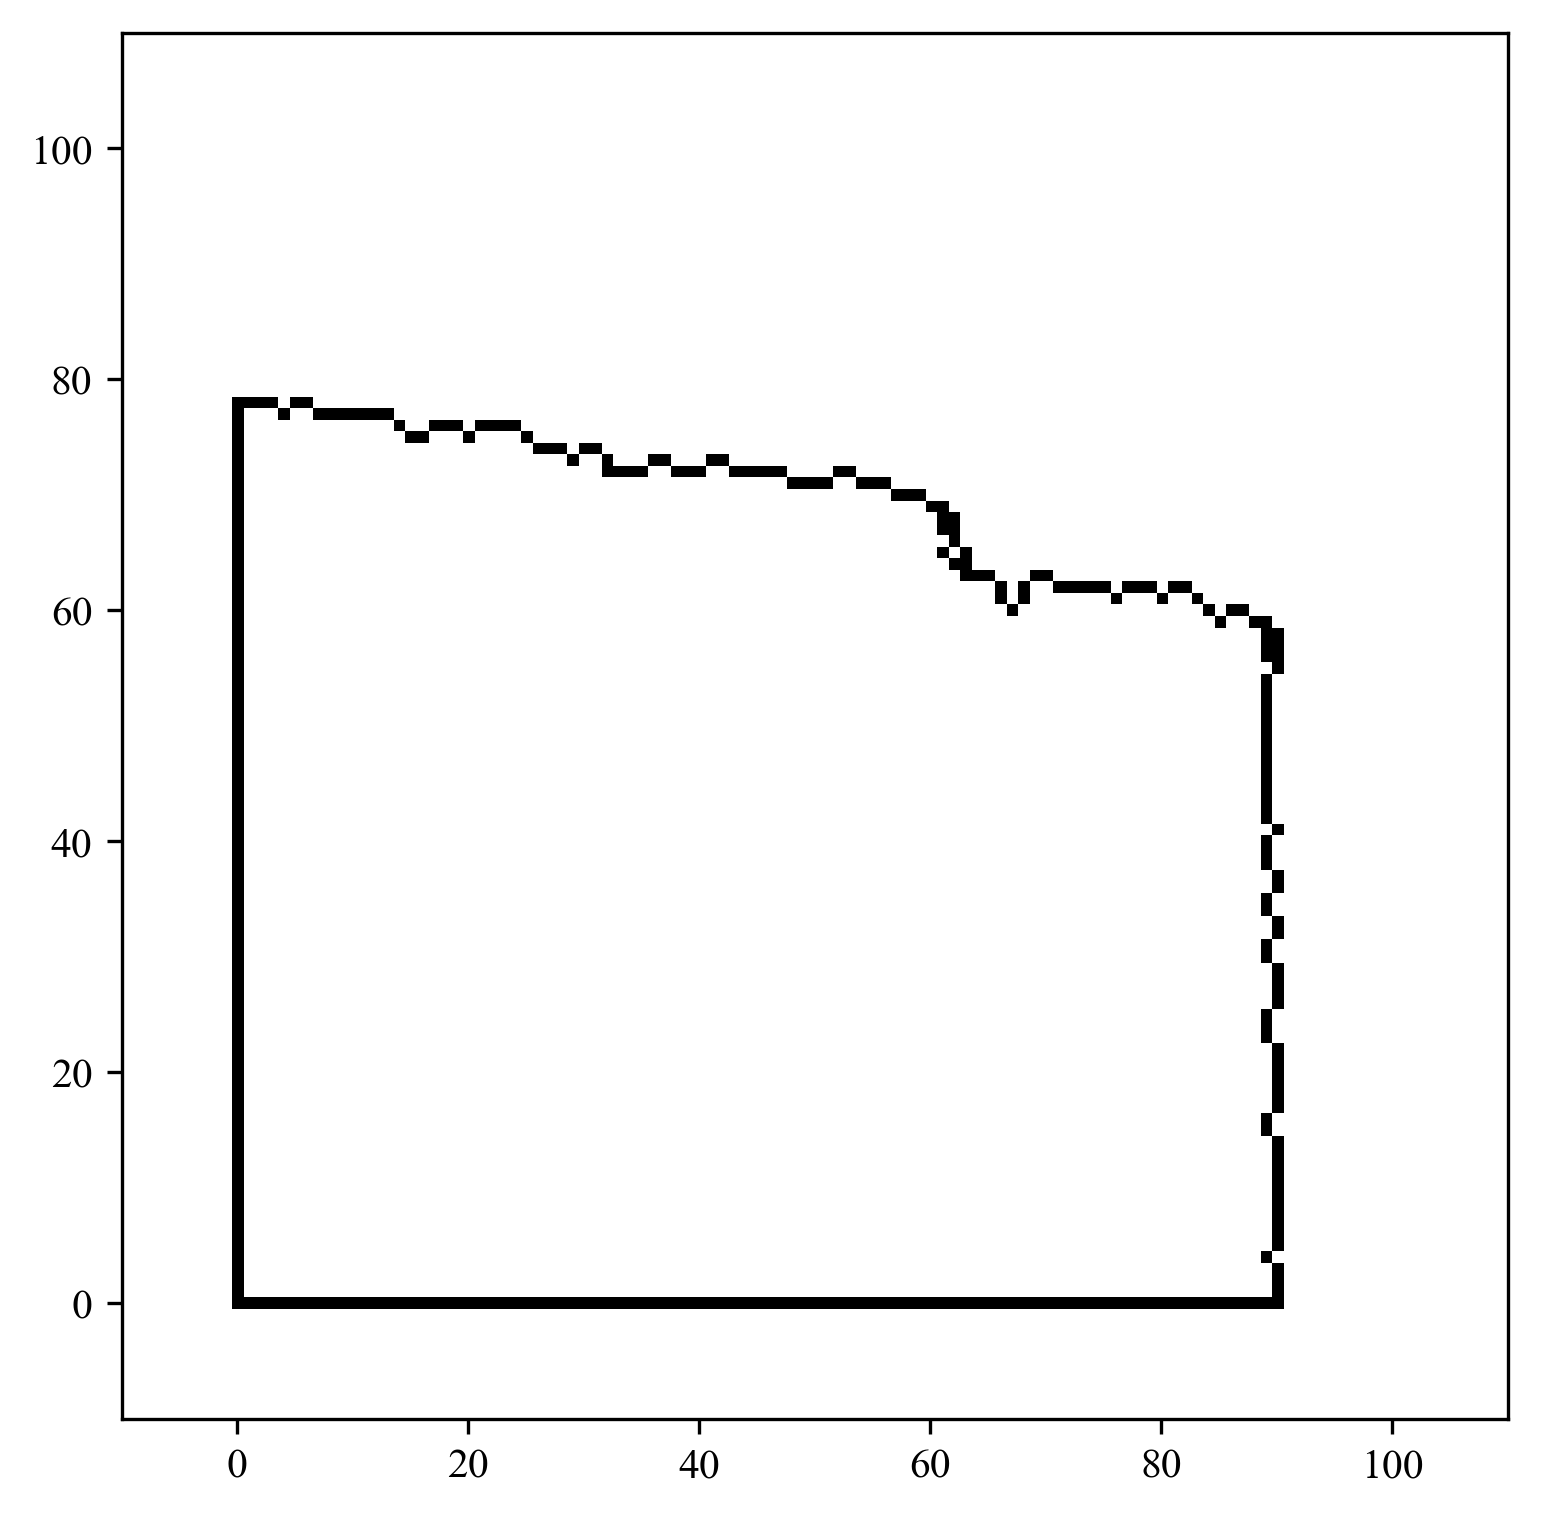
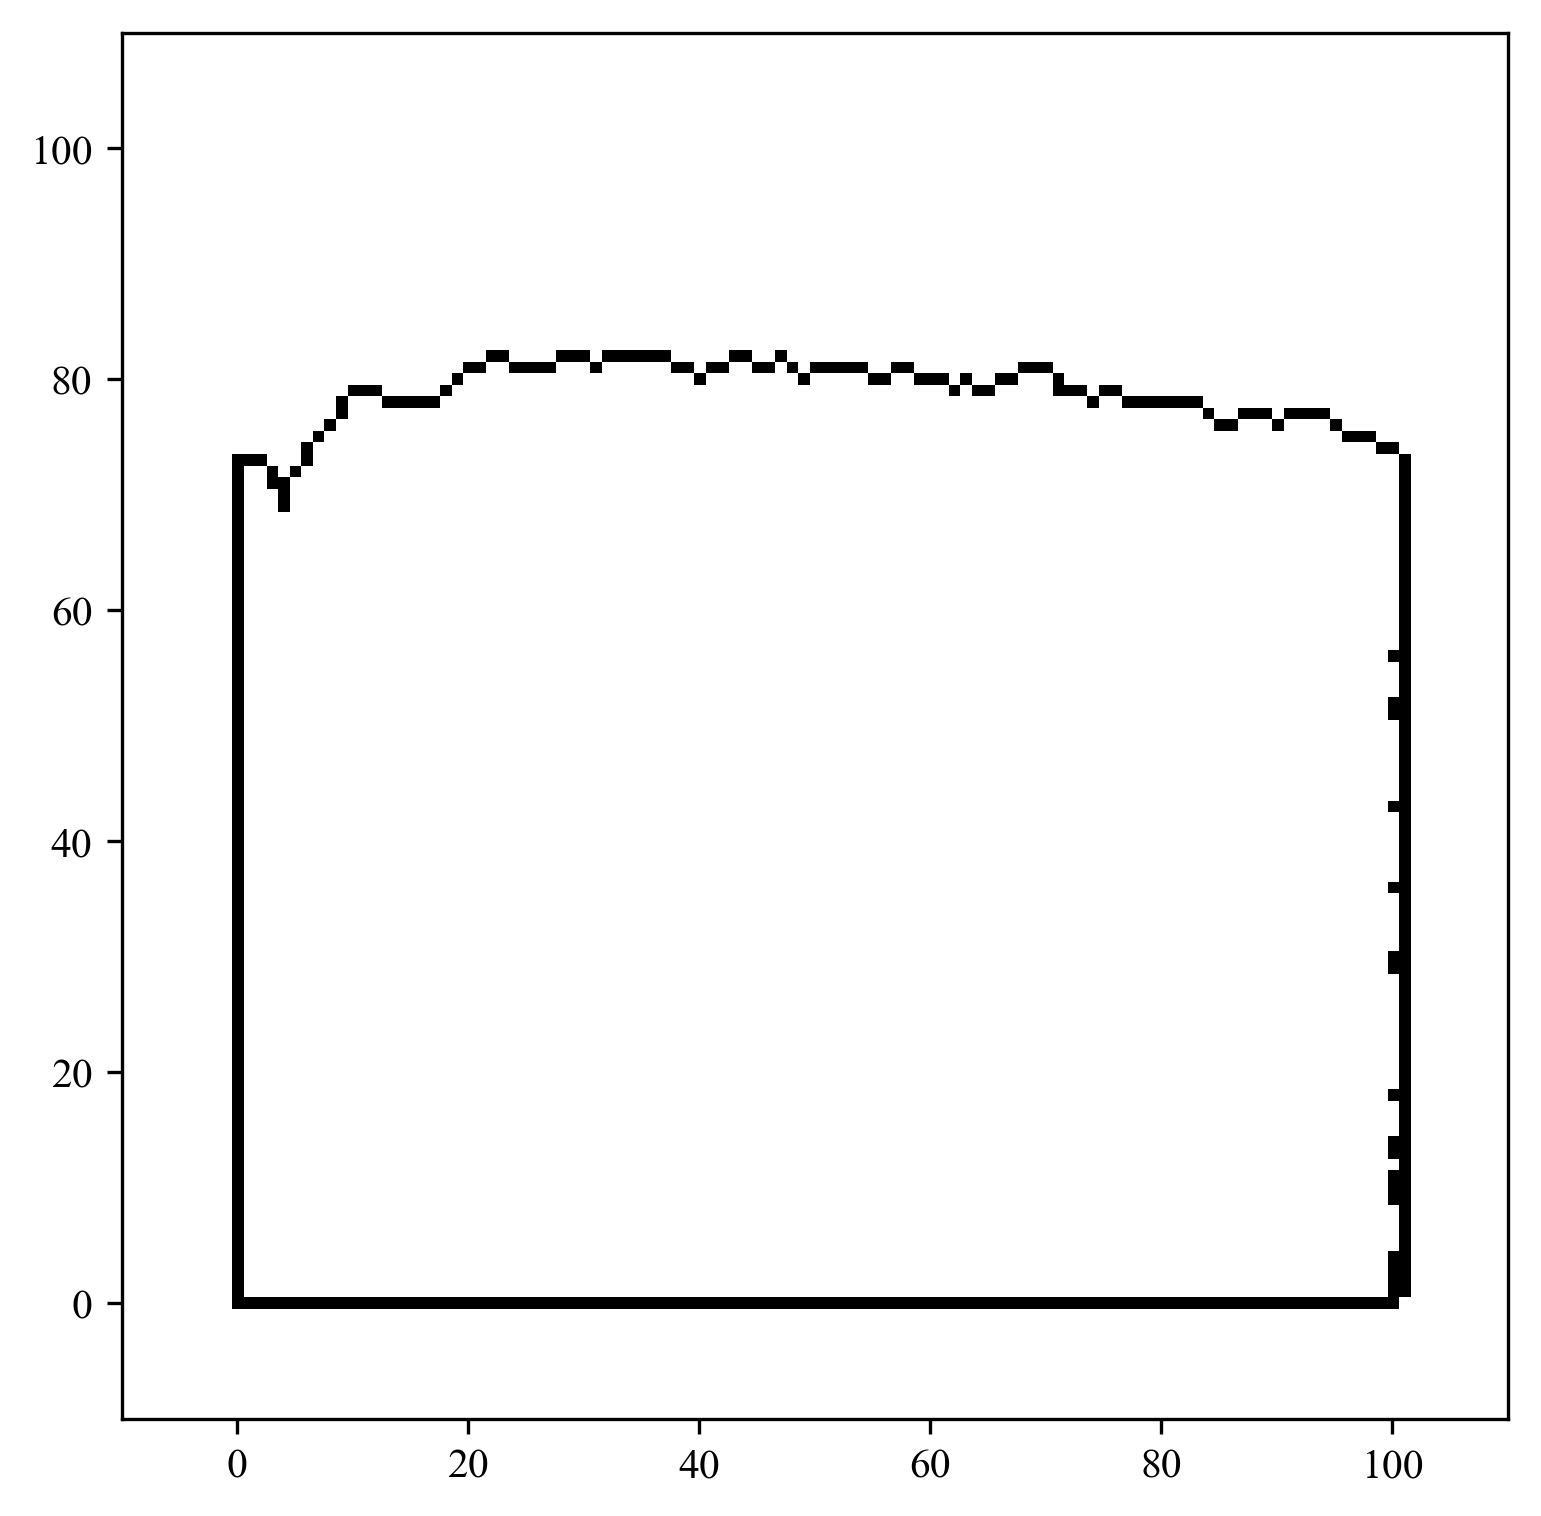
GN

diff --git a/2D/script_essay.py b/2D/script_essay.py
@@ -16,70 +16,6 @@ demand:
 
 from __init__ import *
 
-def PlotGrid(xpos_grid,
-             ypos_grid,
-             length_grid,
-             length_virtual_grid):
-
-    xpos_grid-=0.5
-    ypos_grid-=0.5
-    
-    #left lower corner point of grid
-    
-    xpos_virtual_grid,ypos_virtual_grid=xpos_grid-maximum_radius,ypos_grid-maximum_radius
-    
-    #plt.figure(figsize=(6,6))
-    
-    #draw a virtual border with a radius of a+r_max
-    plt.vlines(xpos_grid,
-               ypos_grid,
-               ypos_grid+length_grid,
-               color='r',
-               linestyles="-")
-    
-    plt.vlines(xpos_grid+length_grid,
-               ypos_grid,
-               ypos_grid+length_grid,
-               color='r',
-               linestyles="-")
-    
-    plt.hlines(ypos_grid,
-               xpos_grid,
-               xpos_grid+length_grid,
-               color='r',
-               linestyles="-")
-    
-    plt.hlines(ypos_grid+length_grid,
-               xpos_grid,
-               xpos_grid+length_grid,
-               color='r',
-               linestyles="-")
-    
-    #draw a concrete border with a radius of a+r_max
-    plt.vlines(xpos_virtual_grid,
-               ypos_virtual_grid,
-               ypos_virtual_grid+length_virtual_grid,
-               color='r',
-               linestyles="--")
-    
-    plt.vlines(xpos_virtual_grid+length_virtual_grid,
-               ypos_virtual_grid,
-               ypos_virtual_grid+length_virtual_grid,
-               color='r',
-               linestyles="--")
-    
-    plt.hlines(ypos_virtual_grid,
-               xpos_virtual_grid,
-               xpos_virtual_grid+length_virtual_grid,
-               color='r',
-               linestyles="--")
-    
-    plt.hlines(ypos_virtual_grid+length_virtual_grid,
-               xpos_virtual_grid,
-               xpos_virtual_grid+length_virtual_grid,
-               color='r',
-               linestyles="--")
-    
 case_path=r'E:\GitHub\YADEM\Controlling-Simulation\2D\compression 100-800\Data\input\single base salt bT=2.4 sT=5 sD=24 sO=200 sW=400'
 
 '''spheres generation'''
@@ -112,7 +48,20 @@ xpos_grid,ypos_grid=52,47
 length_grid=pixel_step
 length_virtual_grid=maximum_radius*2+pixel_step
 
-local_spheres=[this_sphere for this_sphere in global_spheres if 470<=this_sphere.position[0]<=570]
+#4 boundary of interpolation area
+x_min,x_max=400,500
+y_min,y_max=0,100
+
+'''real boundary box for image'''
+x_min_relative,x_max_relative=0,x_max-x_min
+y_min_relative,y_max_relative=0,y_max-y_min
+
+#axis display
+cell_padding_boundary=10
+
+local_spheres=[this_sphere for this_sphere in global_spheres\
+               if x_min<=this_sphere.position[0]<=x_max\
+               and y_min<=this_sphere.position[1]<=y_max]
 
 '''about consumption'''
 spheres=cp.deepcopy(local_spheres)
@@ -123,54 +72,6 @@ that_mesh=C_S_B.SpheresContent(spheres,pixel_step)
 #surface_map=C_S_B.SpheresTopMap(spheres,pixel_step) 
 
 img_tag=that_mesh.img_tag
-
-
-
-
-#PlotGrid(xpos_grid+400,
-#         ypos_grid,
-#         pixel_step,
-#         maximum_radius*2+pixel_step)
-#
-#plt.axis([450,456,44,50])
-
-'''effect of interplation'''
-#plot scatter points in grid
-
-
-#import matrix from txt
-progress_path=case_path.replace('input','output')+'\\Structural Deformation\\30.01%.txt'
-
-img_tag_from_data=C_M.ImportMatrixFromTXT(progress_path)
-img_rgb_from_data=C_I.ImageTag2RGB(img_tag_from_data,yade_rgb_map)
-
-#have a test to find the ROI
-start_index=400
-length_ROI=100
-
-plt.figure(figsize=(6,6))
-
-plt.imshow(img_rgb_from_data[:,start_index:start_index+length_ROI])
-plt.axis([0,100,0,100])
-
-ax=plt.gca()
-
-plt.tick_params(labelsize=10)
-[label.set_fontname('Times New Roman') for label in ax.get_xticklabels() + ax.get_yticklabels()]
-
-plt.savefig('rasterization.png',dpi=300,bbox_inches='tight')
-plt.close()
-
-#for this_sphere in spheres:
-#        
-#    plt.plot(this_sphere.position[0],
-#             this_sphere.position[1],
-#             marker='o',
-#             markersize=this_sphere.radius,
-#             color=this_sphere.color)     
-
-
-#plot gird without value
 
 '''effect of smmothing: structural deformation, stress, strain'''
 

diff --git a/2D/script_grid.py b/2D/script_grid.py
@@ -1,0 +1,86 @@
+# -*- coding: utf-8 -*-
+"""
+Created on Sun May 17 22:51:56 2020
+
+@author: Wei Huajing
+@company: Nanjing University
+@e-mail: jerryweihuajing@126.com
+
+@title：script for essay-grid
+"""
+
+"""
+demand:
+    boundary box of interpolation and rasterization
+"""
+
+def PlotGrid(xpos_grid,
+             ypos_grid,
+             length_grid,
+             length_virtual_grid):
+
+    xpos_grid-=0.5
+    ypos_grid-=0.5
+    
+    #left lower corner point of grid
+    xpos_virtual_grid,ypos_virtual_grid=xpos_grid-maximum_radius,ypos_grid-maximum_radius
+    
+    #plt.figure(figsize=(6,6))
+    
+    #draw a virtual border with a radius of a+r_max
+    plt.vlines(xpos_grid,
+               ypos_grid,
+               ypos_grid+length_grid,
+               color='r',
+               linestyles="-")
+    
+    plt.vlines(xpos_grid+length_grid,
+               ypos_grid,
+               ypos_grid+length_grid,
+               color='r',
+               linestyles="-")
+    
+    plt.hlines(ypos_grid,
+               xpos_grid,
+               xpos_grid+length_grid,
+               color='r',
+               linestyles="-")
+    
+    plt.hlines(ypos_grid+length_grid,
+               xpos_grid,
+               xpos_grid+length_grid,
+               color='r',
+               linestyles="-")
+    
+    #draw a concrete border with a radius of a+r_max
+    plt.vlines(xpos_virtual_grid,
+               ypos_virtual_grid,
+               ypos_virtual_grid+length_virtual_grid,
+               color='r',
+               linestyles="--")
+    
+    plt.vlines(xpos_virtual_grid+length_virtual_grid,
+               ypos_virtual_grid,
+               ypos_virtual_grid+length_virtual_grid,
+               color='r',
+               linestyles="--")
+    
+    plt.hlines(ypos_virtual_grid,
+               xpos_virtual_grid,
+               xpos_virtual_grid+length_virtual_grid,
+               color='r',
+               linestyles="--")
+    
+    plt.hlines(ypos_virtual_grid+length_virtual_grid,
+               xpos_virtual_grid,
+               xpos_virtual_grid+length_virtual_grid,
+               color='r',
+               linestyles="--")
+    
+#plot boundary box
+PlotGrid(xpos_grid+400,
+         ypos_grid,
+         pixel_step,
+         maximum_radius*2+pixel_step)
+
+plt.axis([450,456,44,50])

diff --git a/2D/script_interpolation.py b/2D/script_interpolation.py
@@ -1,0 +1,49 @@
+# -*- coding: utf-8 -*-
+"""
+Created on Sun May 17 23:00:21 2020
+
+@author: Wei Huajing
+@company: Nanjing University
+@e-mail: jerryweihuajing@126.com
+
+@title：script for essay-interpolation
+"""
+
+from script_essay import *
+
+'''effect of interplation'''
+#plot scatter points in grid
+#
+#plt.figure(figsize=(6,6))
+#
+##plot gird without value
+#for this_sphere in spheres:
+#        
+#    plt.plot(this_sphere.position[0],
+#             this_sphere.position[1],
+#             marker='o',
+#             markersize=1,
+#             color='k')  
+    
+#plot grid lines
+    
+#coordinates of grid lines
+x_lines=list(range(400,500))+[500]
+y_lines=list(range(0,100))+[100]
+
+#plt.vlines(xpos_virtual_grid,
+#           ypos_virtual_grid,
+#           ypos_virtual_grid+length_virtual_grid,
+#           color='r',
+#           linestyles="--")
+#    
+#plt.axis([-10,110,-10,110])
+#
+#ax=plt.gca()
+#
+#plt.tick_params(labelsize=10)
+#[label.set_fontname('Times New Roman') for label in ax.get_xticklabels() + ax.get_yticklabels()]
+#
+#plt.savefig('interpolation samples.png',dpi=300,bbox_inches='tight')
+#plt.close()
+

diff --git a/2D/script_outline.py b/2D/script_outline.py
@@ -53,6 +53,7 @@ for j in range(np.shape(outline_matrix)[1]):
     except:
         
         pass
+    
 #left and right
 for i in range(np.shape(outline_matrix)[0]):
     
@@ -113,8 +114,8 @@ plt.close()
 #total outline content after improvement
 content_outline_improvement=C_M_O.OutlineImprovement(surface_outline_content)+\
                             C_M_O.OutlineImprovement(bottom_outline_content)+\
-                            C_M_O.OutlineImprovement(right_outline_content)+\
-                            C_M_O.OutlineImprovement(left_outline_content)
+                            right_outline_content+\
+                            left_outline_content
 
 for this_i,this_j in content_outline_improvement:
 

diff --git a/2D/Module/calculation_matrix_outline.py b/2D/Module/calculation_matrix_outline.py
@@ -151,6 +151,7 @@ def OutlineFromMatrix(which_matrix):
         
         try:
             
+            '''which matrix need a bound added'''
             surface_outline_content.append([np.min(this_i_list)-1,j])
             bottom_outline_content.append([np.max(this_i_list)+1,j])
             
@@ -171,6 +172,7 @@ def OutlineFromMatrix(which_matrix):
                 
         try:
             
+            '''which matrix need a bound added'''
             right_outline_content.append([i,np.max(this_j_list)+1])
             left_outline_content.append([i,np.min(this_j_list)-1])
         

diff --git a/2D/script_scatters.py b/2D/script_scatters.py
@@ -14,15 +14,15 @@ from script_essay import *
 '''effect graphics'''
 plt.figure(figsize=(6,6))
 
-BETA_C_S_M.SpheresPlot(spheres,6)
+BETA_C_S_M.SpheresPlot(spheres,5)
 
-plt.axis([470-10,570+10,-10,110])
+plt.axis([400-10,500+10,-10,110])
 
 '''could not get ticklabel'''
 #change ticks
 ax=plt.gca()
 
-x_major_realticks=np.linspace(470,570,6)
+x_major_realticks=np.linspace(400,500,6)
 x_major_showticks=[str(int(item)) for item in list(np.linspace(0,100,6))]
 
 ax.set_xticks(x_major_realticks)

diff --git a/2D/script_rasterization.py b/2D/script_rasterization.py
@@ -12,7 +12,6 @@ Created on Sun May 17 21:53:45 2020
 from script_essay import *
 
 '''effect of rasterization'''
-#plot boundary box
 #plot image
 #import matrix from txt
 progress_path=case_path.replace('input','output')+'\\Structural Deformation\\30.01%.txt'

diff --git a/2D/script_content.py b/2D/script_content.py
@@ -16,7 +16,8 @@ from script_essay import *
 plt.figure(figsize=(6,6))
 
 plt.imshow(np.flip(that_mesh.img_tag,axis=0),cmap='gray_r')
-plt.axis([0,100,0,100])
+
+plt.axis([-10,110,-10,110])
 
 ax=plt.gca()
 
